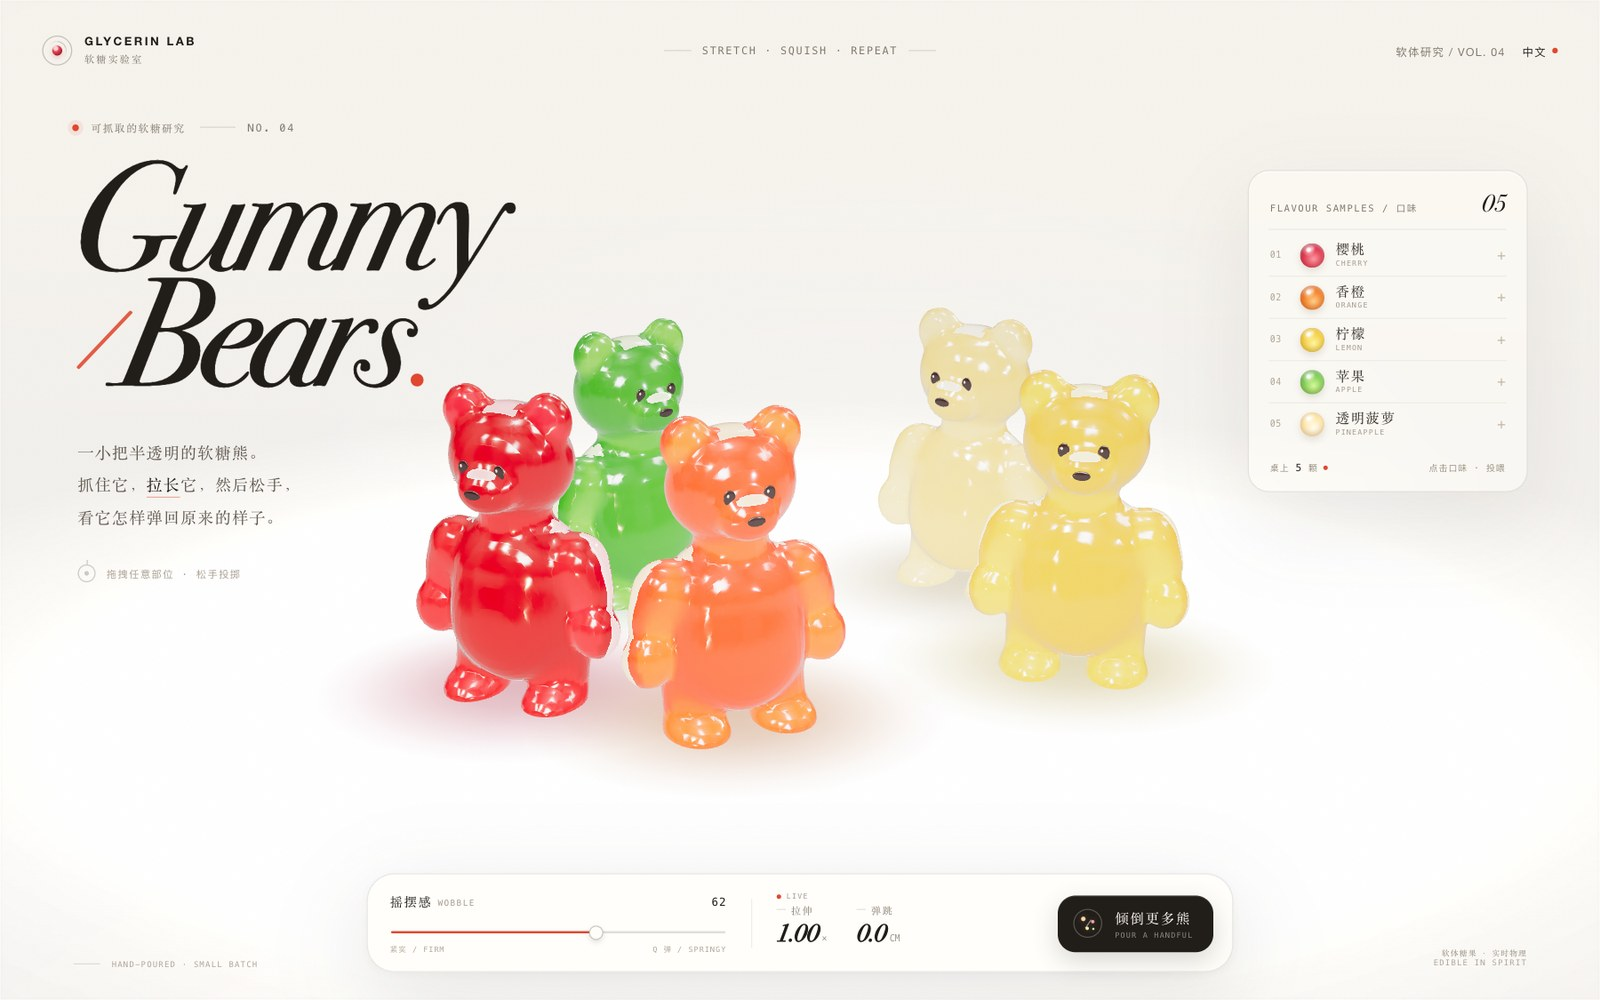
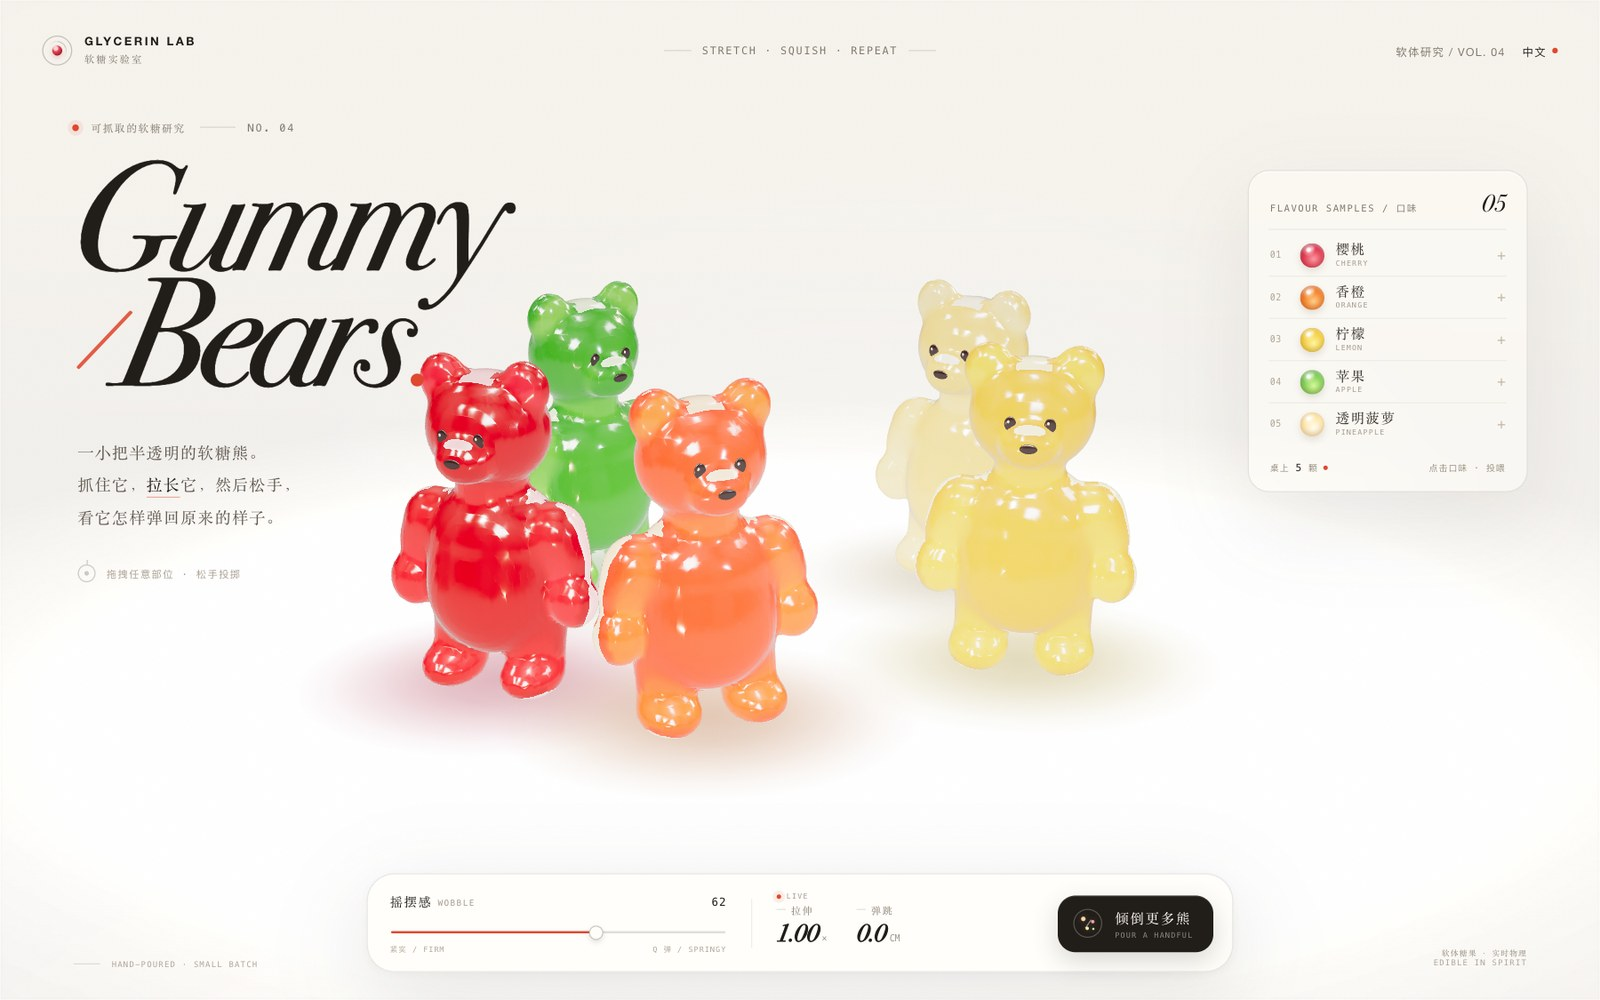
Fix gummy volume collapse when landing and lifting

Changed region(s): [[0.2188, 0.279, 0.5312, 0.744], [0.5312, 0.279, 0.75, 0.713]]

diff --git a/index.html b/index.html
@@ -1684,23 +1684,23 @@ const shadowGeo = new THREE.PlaneGeometry(1, 1);
 const GRAVITY = 14;
 const MAX_SUBSTEP = 1 / 120;
 const PARTICLE_DEF = {
-  belly:     { r:.50, floor:.10, mass:1.45 },
-  chest:     { r:.48, floor:.06, mass:1.35 },
-  neck:      { r:.30, floor:.03, mass:.62 },
-  head:      { r:.41, floor:.045, mass:1.28 },
-  snout:     { r:.21, floor:.02, mass:.28 },
-  earL:      { r:.17, floor:.012, mass:.19 },
-  earR:      { r:.17, floor:.012, mass:.19 },
-  shoulderL: { r:.25, floor:.035, mass:.44 },
-  elbowL:    { r:.19, floor:.02, mass:.33 },
-  handL:     { r:.21, floor:.012, mass:.33 },
-  shoulderR: { r:.25, floor:.035, mass:.44 },
-  elbowR:    { r:.19, floor:.02, mass:.33 },
-  handR:     { r:.21, floor:.012, mass:.33 },
-  hipL:      { r:.27, floor:.035, mass:.48 },
-  footL:     { r:.24, floor:.012, mass:.48 },
-  hipR:      { r:.27, floor:.035, mass:.48 },
-  footR:     { r:.24, floor:.012, mass:.48 }
+  belly:     { r:.50, floor:.28, mass:1.45 },
+  chest:     { r:.48, floor:.24, mass:1.35 },
+  neck:      { r:.30, floor:.15, mass:.62 },
+  head:      { r:.41, floor:.28, mass:1.28 },
+  snout:     { r:.21, floor:.10, mass:.28 },
+  earL:      { r:.17, floor:.06, mass:.19 },
+  earR:      { r:.17, floor:.06, mass:.19 },
+  shoulderL: { r:.25, floor:.15, mass:.44 },
+  elbowL:    { r:.19, floor:.09, mass:.33 },
+  handL:     { r:.21, floor:.10, mass:.33 },
+  shoulderR: { r:.25, floor:.15, mass:.44 },
+  elbowR:    { r:.19, floor:.09, mass:.33 },
+  handR:     { r:.21, floor:.10, mass:.33 },
+  hipL:      { r:.27, floor:.15, mass:.48 },
+  footL:     { r:.24, floor:.10, mass:.48 },
+  hipR:      { r:.27, floor:.15, mass:.48 },
+  footR:     { r:.24, floor:.10, mass:.48 }
 };
 
 const EDGES = [
@@ -1893,6 +1893,8 @@ class GummyBear {
     this.squashV = 0;
     this.press = 0;
     this.pressTarget = 0;
+    this.visualLift = 0;
+    this.plump = .88;
     this.grounded = true;
     this.grab = null;
     this.grabTarget = new THREE.Vector3();
@@ -1941,14 +1943,44 @@ const _c = new THREE.Vector3();
 const _q = new THREE.Vector3();
 function polarRotation(A, out) {
   out.copy(A);
+  // Regularise near-planar covariance matrices (very common when a
+  // candy is squashed on the table) before the polar iteration.
+  const reg = (Math.abs(out.elements[0]) + Math.abs(out.elements[4]) + Math.abs(out.elements[8]) + 1e-5) * .035;
+  out.elements[0] += reg;
+  out.elements[4] += reg;
+  out.elements[8] += reg;
   // Polar decomposition via the classic Higham iteration. This gives
   // the nearest pure rotation without needing an SVD implementation.
-  for (let i = 0; i < 8; i++) {
+  for (let i = 0; i < 10; i++) {
     shapeInv.copy(out).invert();
     shapeRT.copy(shapeInv).transpose();
     const e = out.elements, t = shapeRT.elements;
     for (let n = 0; n < 9; n++) e[n] = (e[n] + t[n]) * .5;
   }
+  // Guarantee a right-handed orthonormal frame even if the input was
+  // close to singular.
+  const e = out.elements;
+  let ax = e[0], ay = e[1], az = e[2];
+  let l = Math.hypot(ax, ay, az);
+  if (l < 1e-7) { out.identity(); return out; }
+  ax /= l; ay /= l; az /= l;
+  let bx = e[3], by = e[4], bz = e[5];
+  const d = ax * bx + ay * by + az * bz;
+  bx -= ax * d; by -= ay * d; bz -= az * d;
+  l = Math.hypot(bx, by, bz);
+  if (l < 1e-7) {
+    // pick any perpendicular direction
+    if (Math.abs(ax) < .9) { bx = -az; by = 0; bz = ax; }
+    else { bx = 0; by = az; bz = -ay; }
+    l = Math.hypot(bx, by, bz);
+  }
+  bx /= l; by /= l; bz /= l;
+  const cx = ay * bz - az * by;
+  const cy = az * bx - ax * bz;
+  const cz = ax * by - ay * bx;
+  e[0] = ax; e[1] = ay; e[2] = az;
+  e[3] = bx; e[4] = by; e[5] = bz;
+  e[6] = cx; e[7] = cy; e[8] = cz;
   return out;
 }
 function shapeMatch(bear, alpha) {
@@ -2075,6 +2107,7 @@ function solveBearCollisions(iterations) {
   }
 }
 
+
 function applyGrab(b) {
   if (!b.grab) return;
   const p = b.particles[b.grab.index];
@@ -2185,6 +2218,8 @@ function updateJelly(b, dt) {
    ═══════════════════════════════════════════════════════════════ */
 const positionScratch = new THREE.Vector3();
 const normalScratch = new THREE.Vector3();
+const rigidA = new THREE.Matrix3();
+const rigidR = new THREE.Matrix3();
 const boneNormalMatrix = new THREE.Matrix3();
 const squashMatrix = new THREE.Matrix3();
 const headAxes = {
@@ -2292,6 +2327,34 @@ function deformBear(b) {
   b.com.copy(_v2);
   b.bounce = Math.max(0, b.comLocal.y - b.restComLocal.y);
 
+  // Best-fit rigid placement of the rest shape, used as a volume anchor.
+  // Pure linear-blend skinning can pinch at twisted joints; a partial
+  // pull toward this rigid shape keeps the candy plump in the air and
+  // on the table without removing its local jiggle.
+  rigidA.set(0,0,0, 0,0,0, 0,0,0);
+  for (let i = 0; i < b.particles.length; i++) {
+    const p = b.currentLocal[i];
+    const r = b.localRest[i];
+    const px = p.x - b.comLocal.x, py = p.y - b.comLocal.y, pz = p.z - b.comLocal.z;
+    const rx = r.x - b.restComLocal.x, ry = r.y - b.restComLocal.y, rz = r.z - b.restComLocal.z;
+    const w = b.particles[i].mass;
+    rigidA.elements[0] += px * rx * w;
+    rigidA.elements[3] += px * ry * w;
+    rigidA.elements[6] += px * rz * w;
+    rigidA.elements[1] += py * rx * w;
+    rigidA.elements[4] += py * ry * w;
+    rigidA.elements[7] += py * rz * w;
+    rigidA.elements[2] += pz * rx * w;
+    rigidA.elements[5] += pz * ry * w;
+    rigidA.elements[8] += pz * rz * w;
+  }
+  polarRotation(rigidA, rigidR);
+  const plumpTarget = b.grab ? (b.grabPressTarget > .02 ? .38 : .32) : .88;
+  b.plump = damp(b.plump, plumpTarget, 10, 1 / 60);
+  const re = rigidR.elements;
+  const rc = b.restComLocal;
+  const cc = b.comLocal;
+
   const pHead = b.currentLocal[PART.head];
   const desiredPress = clamp(b.grabPressTarget || 0, 0, .55);
   b.press = damp(b.press, desiredPress, 15, 1 / 60);
@@ -2312,6 +2375,7 @@ function deformBear(b) {
   const rx = skin.rx, ry = skin.ry, rz = skin.rz;
   const vcount = base.length / 3;
   const bones = b.boneData;
+  let minVisualY = Infinity;
 
   for (let v = 0; v < vcount; v++) {
     const vx = base[v * 3], vy = base[v * 3 + 1], vz = base[v * 3 + 2];
@@ -2335,13 +2399,32 @@ function deformBear(b) {
       pz += weight * (az + oz);
     }
     // global press / jelly deformation
+    if (b.plump > 0.001) {
+      const rx = vx - rc.x, ry = vy - rc.y, rz = vz - rc.z;
+      const gx = cc.x + re[0] * rx + re[3] * ry + re[6] * rz;
+      const gy = cc.y + re[1] * rx + re[4] * ry + re[7] * rz;
+      const gz = cc.z + re[2] * rx + re[5] * ry + re[8] * rz;
+      px += (gx - px) * b.plump;
+      py += (gy - py) * b.plump;
+      pz += (gz - pz) * b.plump;
+    }
     const qx = cx + (px - cx) * sxz;
     const qy = pivotY + (py - pivotY) * sy;
     const qz = cz + (pz - cz) * sxz;
     pos[v * 3] = qx;
-    pos[v * 3 + 1] = Math.max(.004, qy);
+    pos[v * 3 + 1] = qy;
     pos[v * 3 + 2] = qz;
+    if (qy < minVisualY) minVisualY = qy;
   }
+
+  // Never slice the candy flat against the table. Rising the whole
+  // surface keeps its volume when it lands on its side or belly.
+  const lift = minVisualY < .004 ? .004 - minVisualY : 0;
+  if (lift > 0) {
+    for (let v = 0; v < vcount; v++) pos[v * 3 + 1] += lift;
+  }
+  b.visualLift = lift;
+
   geo.attributes.position.needsUpdate = true;
   if (b.grab || ((visualFrame + (b.normalPhase || 0)) & 1) === 0) {
     geo.computeVertexNormals();
@@ -2356,14 +2439,24 @@ function deformBear(b) {
   const headP = pHead;
   const headRest = REST.head;
   const facePoint = (anchor) => {
-    return _v1.copy(headP)
+    _v1.copy(headP)
       .addScaledVector(headAxes.x, (anchor.x - headRest[0]) * frame.sx)
       .addScaledVector(headAxes.y, (anchor.y - headRest[1]) * frame.sy)
       .addScaledVector(headAxes.z, anchor.z - headRest[2]);
+    if (b.plump > 0.001) {
+      const rx = anchor.x - rc.x, ry = anchor.y - rc.y, rz = anchor.z - rc.z;
+      _v2.set(
+        cc.x + re[0] * rx + re[3] * ry + re[6] * rz,
+        cc.y + re[1] * rx + re[4] * ry + re[7] * rz,
+        cc.z + re[2] * rx + re[5] * ry + re[8] * rz
+      );
+      _v1.lerp(_v2, b.plump);
+    }
+    return _v1;
   };
   const setFace = (mesh, pos, scale) => {
     applySquashToPoint(b, pos.x, pos.y, pos.z, positionScratch);
-    mesh.position.set(positionScratch.x, Math.max(.008, positionScratch.y), positionScratch.z);
+    mesh.position.set(positionScratch.x, Math.max(.008, positionScratch.y + (b.visualLift || 0)), positionScratch.z);
     _m4.makeBasis(headAxes.x, headAxes.y, headAxes.z);
     mesh.quaternion.setFromRotationMatrix(_m4);
     mesh.scale.copy(scale);

diff --git a/README.md b/README.md
@@ -6,10 +6,6 @@
 
 [![Gummy / Bears. 页面预览](preview.jpg)](https://jdb156158.github.io/ClycerinLib/)
 
-
-## 提示词：
-提示  构建“Gummy Bears” - 一个单一的自包含HTML文件（仅依赖CDN上的three.js）：在白色桌子上的一小把半透明的软糖熊，你可以抓住、拉伸、挤压、扔和倾倒。  软糖熊 - 经典软糖熊轮廓：圆形头部带两个耳朵，短吻，丰满的身体，粗短的手臂和腿部，小型模压眼睛和鼻子 - 每个部分平滑融化到下一个部分 - 将身体构建为隐式表面（元球 / 行进立方体），而不是单独的球体 - 材质：真实的软糖果。半透明，具有透射和折射，颜色光吸收在厚实部分更深，光泽清漆带有锐利的亮点 - 颜色：樱桃红、橙色、柠檬黄、苹果绿、透明菠萝 - 每个熊下方柔和的有色阴影，由熊自身的颜色着色  物理效果（这是整个重点 - 必须感觉像果冻，而不是塑料） - 每只熊是一个软体：头部、耳朵、吻、身体、腹部、手和脚的质量点，通过体积保持的形状匹配连接在一起 - 四肢和脖子渲染为点之间的可拉伸链条，拉伸时变细 - 抓住任何部分并拉动：它像橡胶一样拉伸，熊的其余部分随之倾斜，松开时它会弹回并伴随阻尼摆动 - 向上拉头部：脖子拉伸，身体跟随，松开时熊会挤压并跳跃 - 向下按压头部：熊会像煎饼一样压扁，向侧面膨胀，然后弹回向上 - 扔一只熊：它飞翔，落地时挤压，弹跳并推开其他熊 - 熊之间会碰撞，绝不会穿过彼此 - 闲置的熊会进行小型随机跳跃，伴随挤压和拉伸 - “倾倒更多熊”从上方掉下一把，落入摇晃、抖动的堆中  用户界面 - 编辑风格的产品页面风格，白色背景。大型斜体衬线标题“Gummy / Bears.”，一个简短的副标题，右侧一个最小化卡片带有口味样本，一个摇摆滑块，实时“拉伸”和“弹跳”读数，以及一个“倾倒更多熊”按钮 - 一个微妙的圆形光标，在抓取时会增大 - ACES色调映射，环境反射，柔和主光和背光。平滑60fps；网页上要用中文哦
-
 ## 玩法
 
 - **拿起并拉伸**：拖拽任意部位，软糖熊会像橡皮一样拉长，身体随之倾斜，松手带阻尼回弹。
@@ -31,6 +27,7 @@
 - 平滑隐式表面 + Marching Cubes 构建连续软糖身体
 - 软体粒子、形状匹配、拉伸细化、粒子碰撞与地面摩擦
 - 程序化厚薄遮罩控制颜色吸收，半透明材质带有屏幕空间折射
+- 稳定的刚体姿态锚定，避免软体落地或提起时瘪成薄片，同时保留挤压和回弹
 - 按熊数量和实时帧率自适应渲染分辨率，保持 60fps 交互
 
 ## 文件
